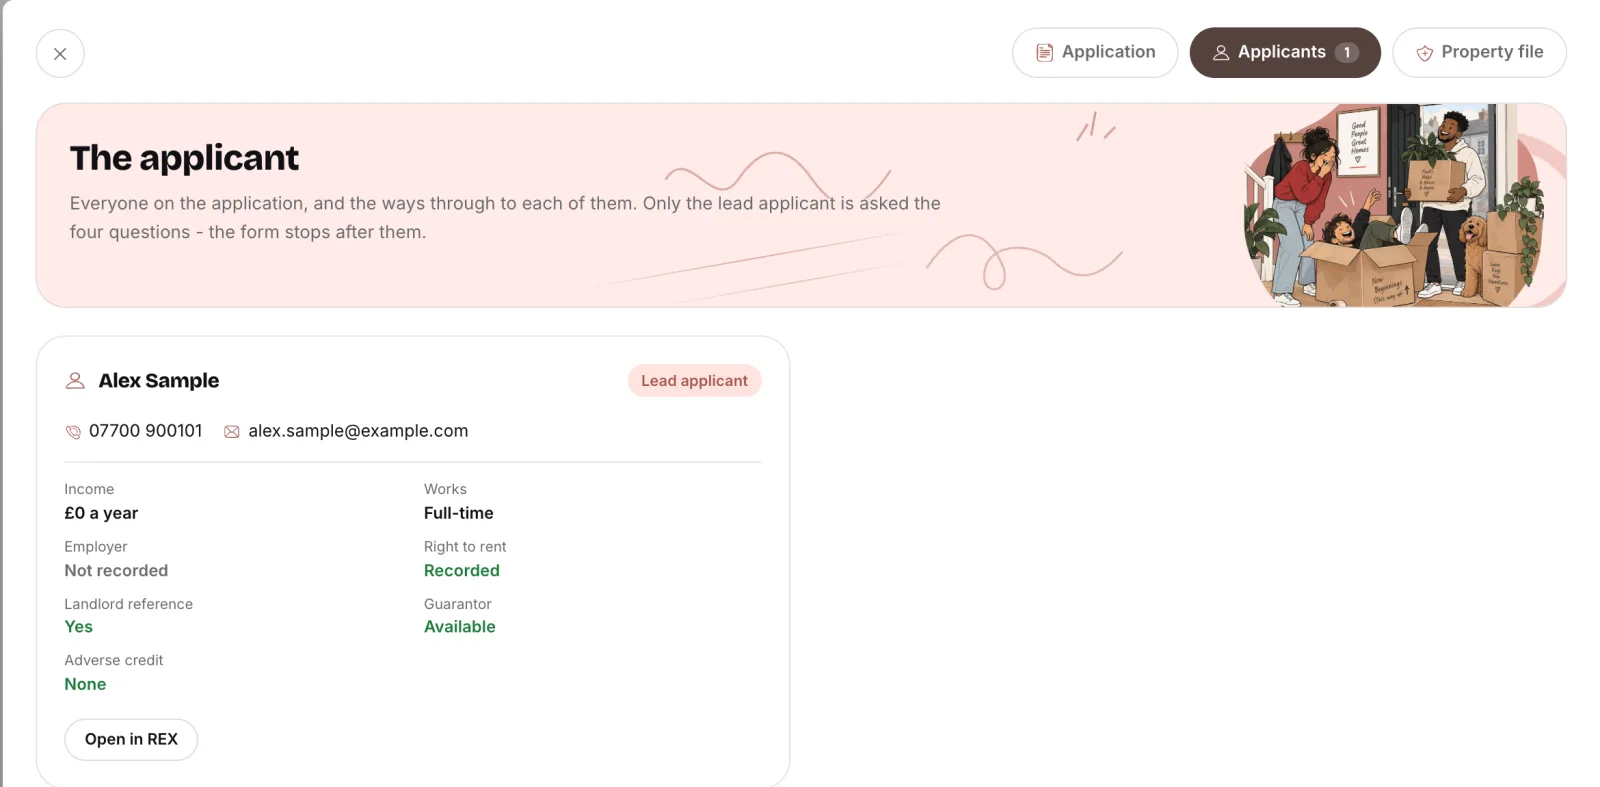
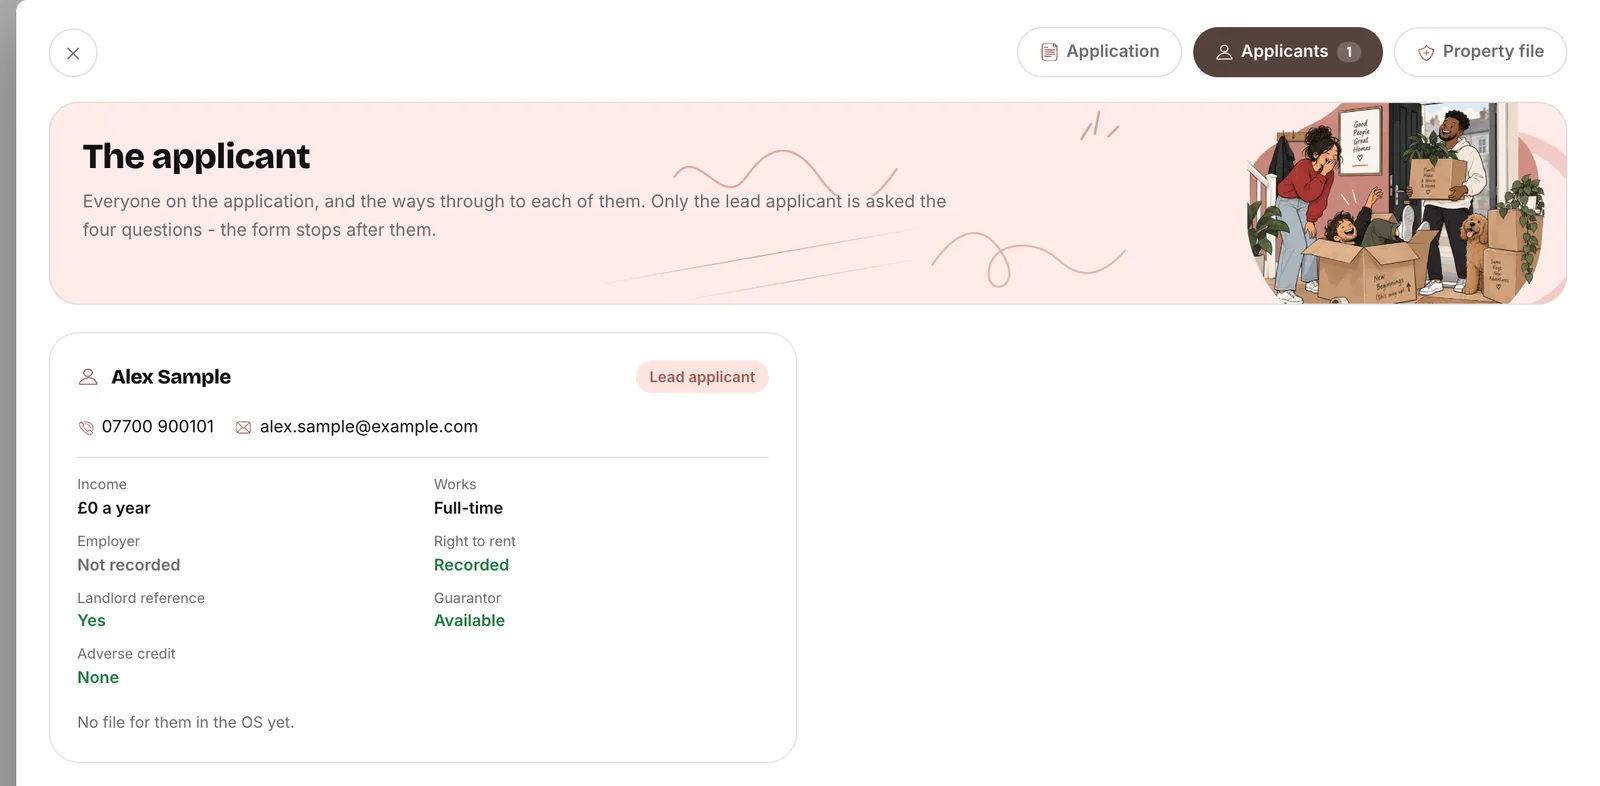
The applications and listing guide pictures show the screens as they are now
Retaken with sample applicants: Open application on the list, the practice-run
wording and Check the handover on the file, no Open in REX on the applicant, and
no Make an offer on the live listing. The listing also stops saying 1 days.

diff --git a/components/ListingDrawer.tsx b/components/ListingDrawer.tsx
@@ -1221,7 +1221,7 @@ export default function ListingDrawer({
                   { icon: "target", title: enquiries === null ? "Reading the enquiries…" : `${enquiries.length} enquir${enquiries.length === 1 ? "y" : "ies"}`, sub: "From the portals, on this listing", to: "applications" as TabKey },
                   { icon: "calendar", title: viewings === null ? "Reading the diary…" : `${viewings.upcoming.length + booked.length} booked · ${viewings.past.length} done`, sub: "Viewings", to: "viewings" as TabKey },
                   { icon: "coin", title: liveApps === null ? "Reading the applications…" : `${(liveApps?.length ?? 0) + offers.length} application${(liveApps?.length ?? 0) + offers.length === 1 ? "" : "s"}`, sub: liveApps?.some((a) => /accept/i.test(a.statusLabel)) ? "One accepted" : "None accepted yet", to: "applications" as TabKey },
-                  { icon: "folder", title: `${listing.imageCount} photo${listing.imageCount === 1 ? "" : "s"} on file`, sub: listing.daysOnMarket != null ? `${listing.daysOnMarket} days on the market` : "Not published yet", to: "marketing" as TabKey },
+                  { icon: "folder", title: `${listing.imageCount} photo${listing.imageCount === 1 ? "" : "s"} on file`, sub: listing.daysOnMarket != null ? `${listing.daysOnMarket} day${listing.daysOnMarket === 1 ? "" : "s"} on the market` : "Not published yet", to: "marketing" as TabKey },
                 ].map((g) => (
                   <li key={g.sub + g.title}>
                     <button type="button" onClick={() => setTab(g.to)} className="flex w-full items-start gap-3 text-left">
